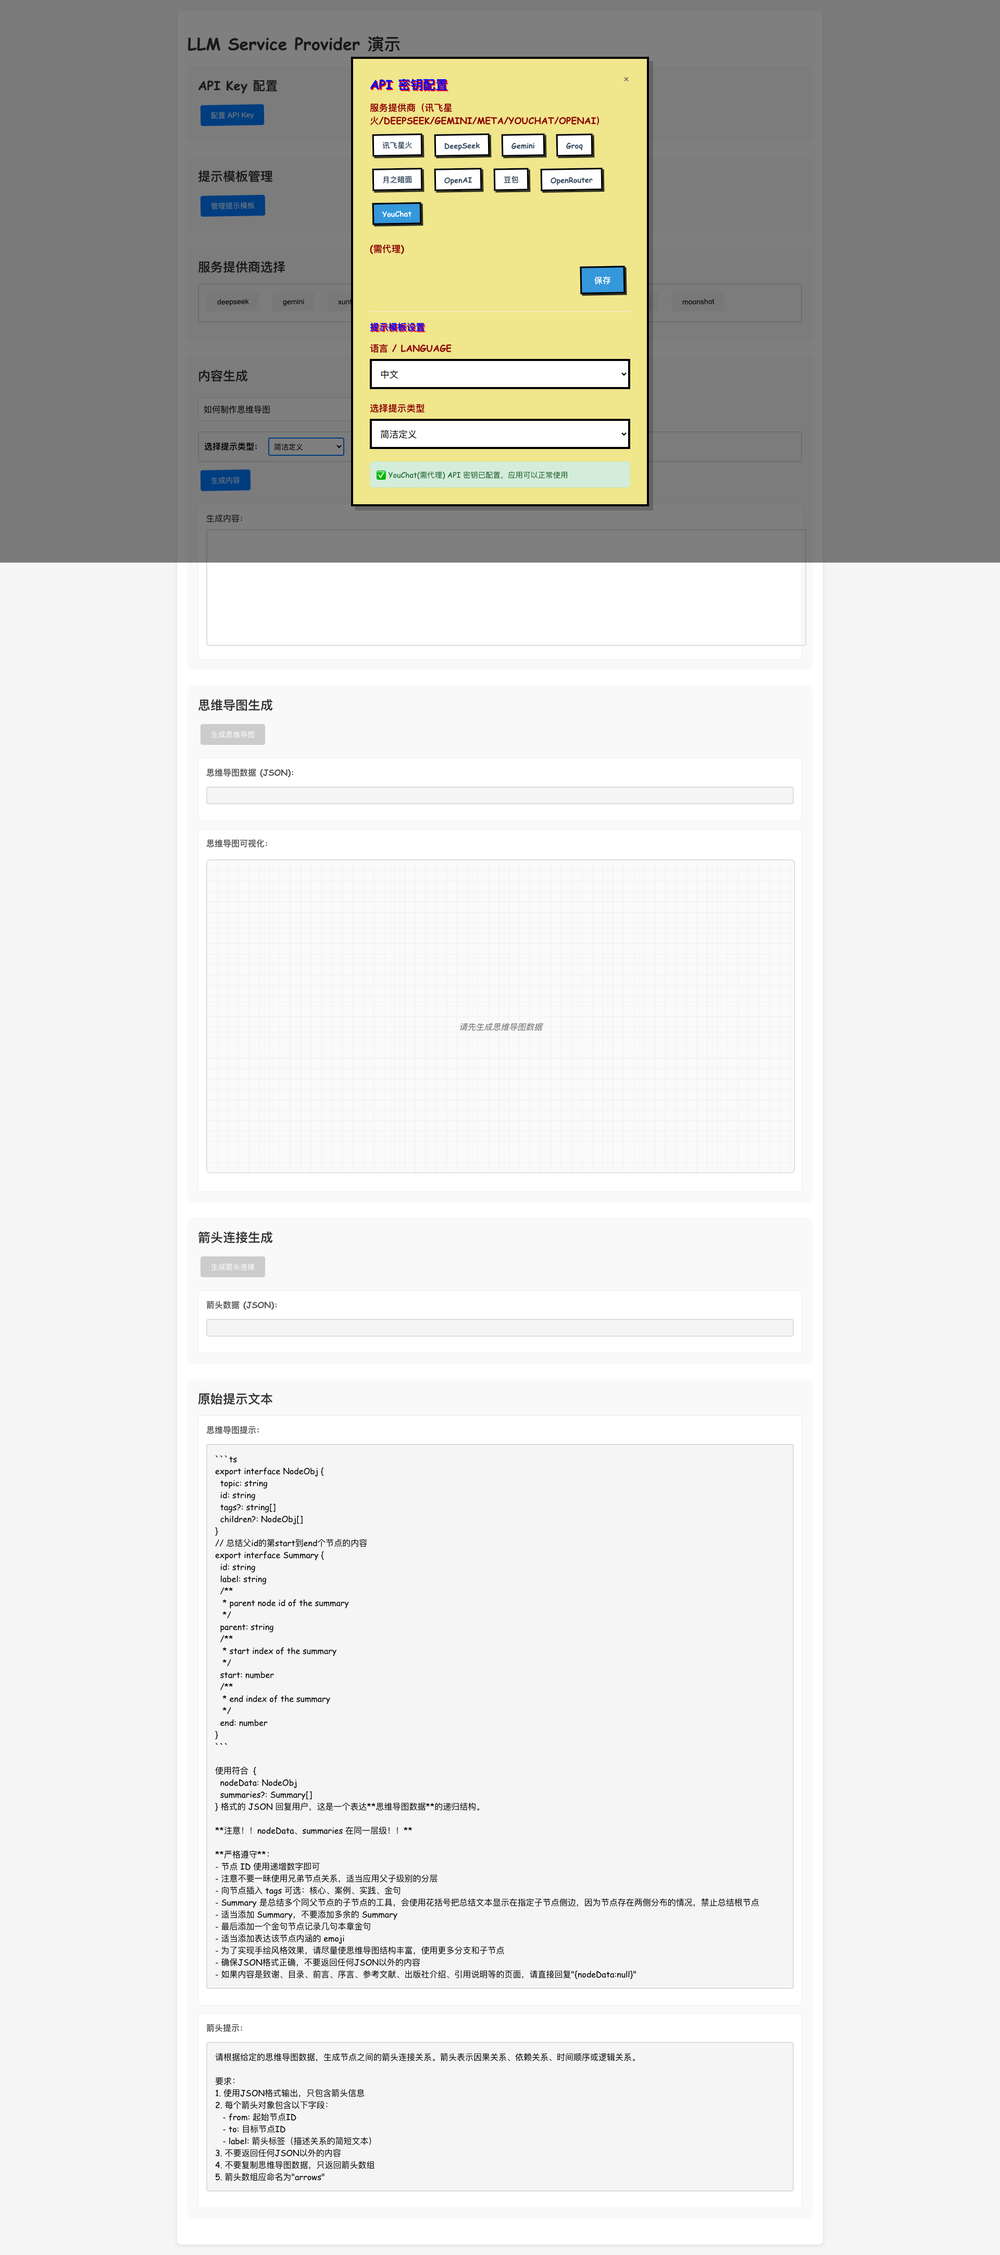
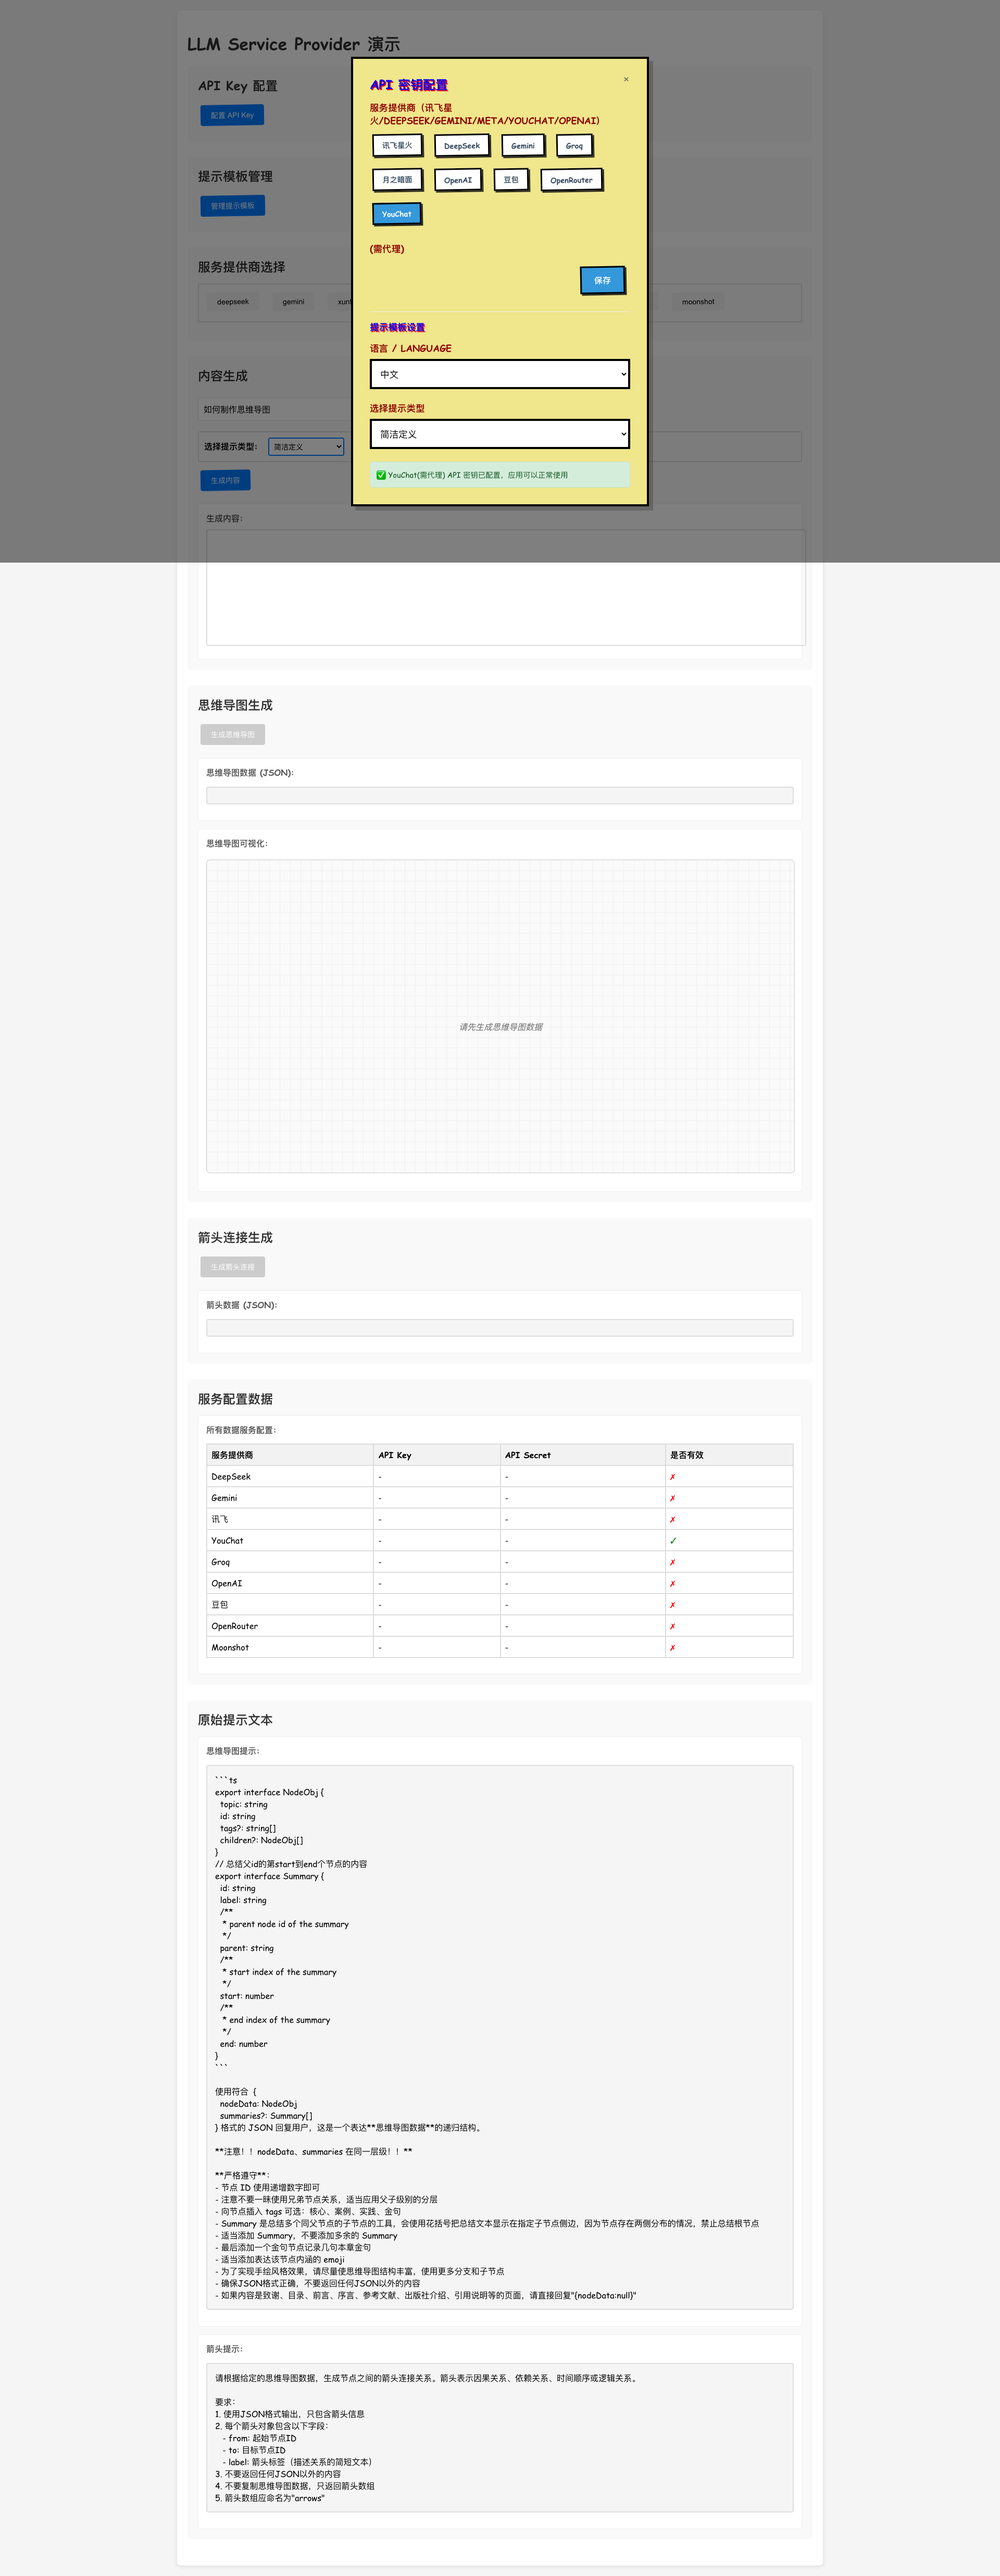
Bump version to 3.6.24

diff --git a/llm-core/src/llmService.ts b/llm-core/src/llmService.ts
@@ -15,6 +15,14 @@ export enum ServiceProvider {
   MOONSHOT = "moonshot",
 }
 
+export interface ServiceConfiguration {
+  provider: ServiceProvider;
+  name: string;
+  apiKey: string;
+  apiSecret: string;
+  isValid: boolean;
+}
+
 export const serviceProvidersRegistry: Record<
   ServiceProvider,
   ServiceProviderImplementation | null
@@ -102,6 +110,80 @@ export const hasApiKey = (): boolean => {
     hasOpenRouterApiKey() ||
     hasMoonshotApiKey()
   );
+};
+
+// 获取所有服务提供商的配置数据
+export const getAllServiceConfigurations = (): ServiceConfiguration[] => {
+  const configurations: ServiceConfiguration[] = [];
+  
+  // 服务名称映射
+  const serviceNames: Record<ServiceProvider, string> = {
+    [ServiceProvider.DEEPSEEK]: 'DeepSeek',
+    [ServiceProvider.GEMINI]: 'Gemini',
+    [ServiceProvider.XUNFEI]: '讯飞',
+    [ServiceProvider.YOUCHAT]: 'YouChat',
+    [ServiceProvider.GROQ]: 'Groq',
+    [ServiceProvider.OPENAI]: 'OpenAI',
+    [ServiceProvider.DOUBAO]: '豆包',
+    [ServiceProvider.OPENROUTER]: 'OpenRouter',
+    [ServiceProvider.MOONSHOT]: 'Moonshot',
+  };
+  
+  // 遍历所有服务提供商
+  Object.values(ServiceProvider).forEach((provider) => {
+    const config: ServiceConfiguration = {
+      provider,
+      name: serviceNames[provider],
+      apiKey: '',
+      apiSecret: '',
+      isValid: false
+    };
+    
+    // 根据服务提供商类型获取相应的配置
+    switch (provider) {
+      case ServiceProvider.DEEPSEEK:
+        config.apiKey = localStorage.getItem('DEEPSEEK_API_KEY') || '';
+        config.isValid = hasDeepSeekApiKey();
+        break;
+      case ServiceProvider.GEMINI:
+        config.apiKey = localStorage.getItem('GEMINI_API_KEY') || '';
+        config.isValid = hasGeminiApiKey();
+        break;
+      case ServiceProvider.GROQ:
+        config.apiKey = localStorage.getItem('GROQ_API_KEY') || '';
+        config.isValid = hasGroqApiKey();
+        break;
+      case ServiceProvider.XUNFEI:
+        config.apiKey = localStorage.getItem('XUNFEI_API_KEY') || '';
+        config.apiSecret = localStorage.getItem('XUNFEI_API_SECRET') || '';
+        config.isValid = hasXunfeiApiKey() && hasXunfeiApiSecret();
+        break;
+      case ServiceProvider.OPENAI:
+        config.apiKey = localStorage.getItem('OPENAI_API_KEY') || '';
+        config.isValid = hasOpenAiApiKey();
+        break;
+      case ServiceProvider.DOUBAO:
+        config.apiKey = localStorage.getItem('DOUBAO_API_KEY') || '';
+        config.isValid = hasDoubaoApiKey();
+        break;
+      case ServiceProvider.OPENROUTER:
+        config.apiKey = localStorage.getItem('OPENROUTER_API_KEY') || '';
+        config.isValid = hasOpenRouterApiKey();
+        break;
+      case ServiceProvider.MOONSHOT:
+        config.apiKey = localStorage.getItem('MOONSHOT_API_KEY') || '';
+        config.isValid = hasMoonshotApiKey();
+        break;
+      case ServiceProvider.YOUCHAT:
+        config.apiKey = localStorage.getItem('YOUCHAT_API_KEY') || '';
+        config.isValid = hasYouChatApiKey();
+        break;
+    }
+    
+    configurations.push(config);
+  });
+  
+  return configurations;
 };
 
 export const setSelectedServiceProvider = (provider: ServiceProvider): void => {

diff --git a/demo/src/App.tsx b/demo/src/App.tsx
@@ -15,6 +15,7 @@ import {
   hasApiKey,
   getSelectedServiceProvider,
   setSelectedServiceProvider,
+  getAllServiceConfigurations
 } from "../../src";
 // 修改导入语句
 import ApiKeyManager, { updateSelectedPromptType } from "../../src/ApiKeyManager";
@@ -102,6 +103,7 @@ function App() {
   const [availablePrompts, setAvailablePrompts] = useState<string[]>([
     "简洁定义",
   ]);
+  const [serviceConfigurations, setServiceConfigurations] = useState<any[]>([]);
 
   // 内容生成状态
   const [content, setContent] = useState("");
@@ -135,6 +137,10 @@ function App() {
     const prompts = getPromptsByLanguage("zh");
     const promptTypes = prompts.map((prompt) => prompt.act);
     setAvailablePrompts(promptTypes);
+    
+    // 获取所有服务配置数据
+    const configs = getAllServiceConfigurations();
+    setServiceConfigurations(configs);
   }, []);
 
   // 解析思维导图数据
@@ -527,6 +533,44 @@ function App() {
             {isGeneratingArrows && "正在生成箭头连接...\n"}
             {arrows}
           </pre>
+        </div>
+      </div>
+
+      {/* 服务配置数据展示 */}
+      <div className="section">
+        <h2>服务配置数据</h2>
+        <div className="result-container">
+          <h3>所有数据服务配置:</h3>
+          <div className="configurations-table">
+            <table border="1" style={{ width: '100%', borderCollapse: 'collapse' }}>
+              <thead>
+                <tr>
+                  <th style={{ padding: '8px', textAlign: 'left' }}>服务提供商</th>
+                  <th style={{ padding: '8px', textAlign: 'left' }}>API Key</th>
+                  <th style={{ padding: '8px', textAlign: 'left' }}>API Secret</th>
+                  <th style={{ padding: '8px', textAlign: 'left' }}>是否有效</th>
+                </tr>
+              </thead>
+              <tbody>
+                {serviceConfigurations.map((config, index) => (
+                  <tr key={index}>
+                    <td style={{ padding: '8px' }}>{config.name}</td>
+                    <td style={{ padding: '8px' }}>
+                      {config.apiKey ? (config.apiKey.length > 0 ? '*'.repeat(Math.min(config.apiKey.length, 10)) : '-') : '-'}
+                    </td>
+                    <td style={{ padding: '8px' }}>
+                      {config.apiSecret ? (config.apiSecret.length > 0 ? '*'.repeat(Math.min(config.apiSecret.length, 10)) : '-') : '-'}
+                    </td>
+                    <td style={{ padding: '8px' }}>
+                      <span style={{ color: config.isValid ? 'green' : 'red' }}>
+                        {config.isValid ? '✓' : '✗'}
+                      </span>
+                    </td>
+                  </tr>
+                ))}
+              </tbody>
+            </table>
+          </div>
         </div>
       </div>
 

diff --git a/src/index.ts b/src/index.ts
@@ -28,7 +28,8 @@ export const {
   setGeminiApiKey,
   setGroqApiKey,
   setOpenAiApiKey,
-  setDoubaoApiKey
+  setDoubaoApiKey,
+  getAllServiceConfigurations
 } = llmCore;
 
 export const init = initServices;
